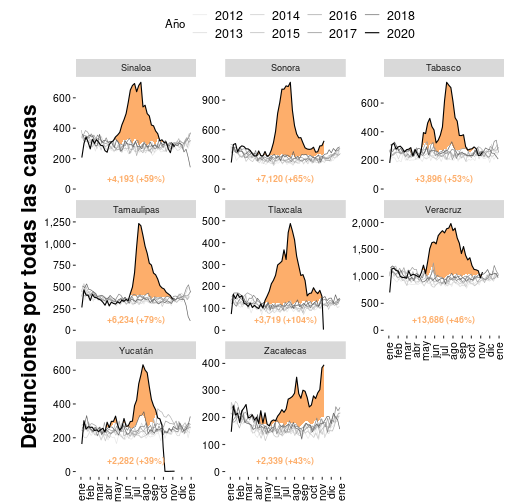
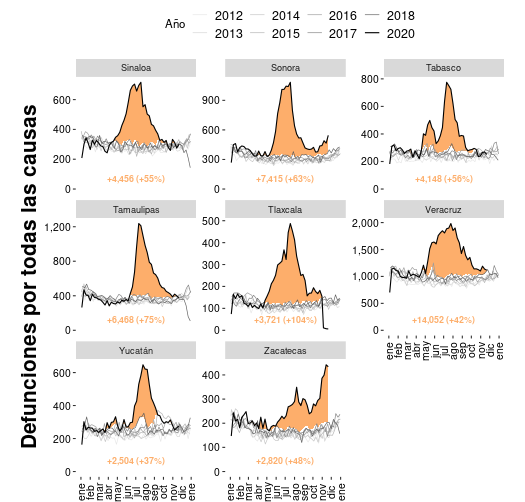
Exceso de mortalidad 2020-12-22

diff --git a/content/muertes/exceso_mortalidad_nacional.md b/content/muertes/exceso_mortalidad_nacional.md
@@ -11,8 +11,8 @@ son diagnosticadas. En
 <a href="https://www.economist.com/graphic-detail/2020/07/15/tracking-covid-19-excess-deaths-across-countries">países</a>
 se ha observado que la pandemia provoca un <i>exceso de mortalidad</i>.</p>
 
-<p>En México, desde el inicio de la pandemia y hasta el 7 de noviembre se han
-registrado <b>53% más defunciones</b> que en el mismo periodo de años previos.
+<p>En México, desde el inicio de la pandemia y hasta el 21 de noviembre se han
+registrado <b>55% más defunciones</b> que en el mismo periodo de años previos.
 Estos números son preliminares ya que el catálogo nacional de defunciones
 tarda dos años en finalizarse.</p>
 

diff --git a/content/muertes/exceso_mortalidad_estados1.md b/content/muertes/exceso_mortalidad_estados1.md
@@ -8,7 +8,7 @@ medir el costo humano en cada entidad.</p>
 
 <p>Estas gráficas muestran el
 <a href="#exceso_mortalidad_nacional"><i>exceso de mortalidad</i></a>
-hasta el 7 de noviembre para 8 de las 32 entidades federativas del país.
+hasta el 21 de noviembre para 8 de las 32 entidades federativas del país.
 La región con color indica las semanas con <i>exceso de mortalidad</i>.
 Se indica el número absoluto de exceso de mortalidad para canda entidad y el
 incremento porcentual. Las entidades federativas están organizadas

diff --git a/content/muertes/exceso_mortalidad_estados2.md b/content/muertes/exceso_mortalidad_estados2.md
@@ -8,7 +8,7 @@ medir el costo humano en cada entidad.</p>
 
 <p>Estas gráficas muestran el
 <a href="#exceso_mortalidad_nacional"><i>exceso de mortalidad</i></a>
-hasta el 7 de noviembre para 8 de las 32 entidades federativas del país.
+hasta el 21 de noviembre para 8 de las 32 entidades federativas del país.
 La región con color indica las semanas con <i>exceso de mortalidad</i>.
 Se indica el número absoluto de exceso de mortalidad para canda entidad y el
 incremento porcentual. Las entidades federativas están organizadas

diff --git a/content/muertes/exceso_mortalidad_estados3.md b/content/muertes/exceso_mortalidad_estados3.md
@@ -8,7 +8,7 @@ medir el costo humano en cada entidad.</p>
 
 <p>Estas gráficas muestran el
 <a href="#exceso_mortalidad_nacional"><i>exceso de mortalidad</i></a>
-hasta el 7 de noviembre para 8 de las 32 entidades federativas del país.
+hasta el 21 de noviembre para 8 de las 32 entidades federativas del país.
 La región con color indica las semanas con <i>exceso de mortalidad</i>.
 Se indica el número absoluto de exceso de mortalidad para canda entidad y el
 incremento porcentual. Las entidades federativas están organizadas

diff --git a/content/muertes/exceso_mortalidad_estados4.md b/content/muertes/exceso_mortalidad_estados4.md
@@ -8,7 +8,7 @@ medir el costo humano en cada entidad.</p>
 
 <p>Estas gráficas muestran el
 <a href="#exceso_mortalidad_nacional"><i>exceso de mortalidad</i></a>
-hasta el 7 de noviembre para 8 de las 32 entidades federativas del país.
+hasta el 21 de noviembre para 8 de las 32 entidades federativas del país.
 La región con color indica las semanas con <i>exceso de mortalidad</i>.
 Se indica el número absoluto de exceso de mortalidad para canda entidad y el
 incremento porcentual. Las entidades federativas están organizadas
